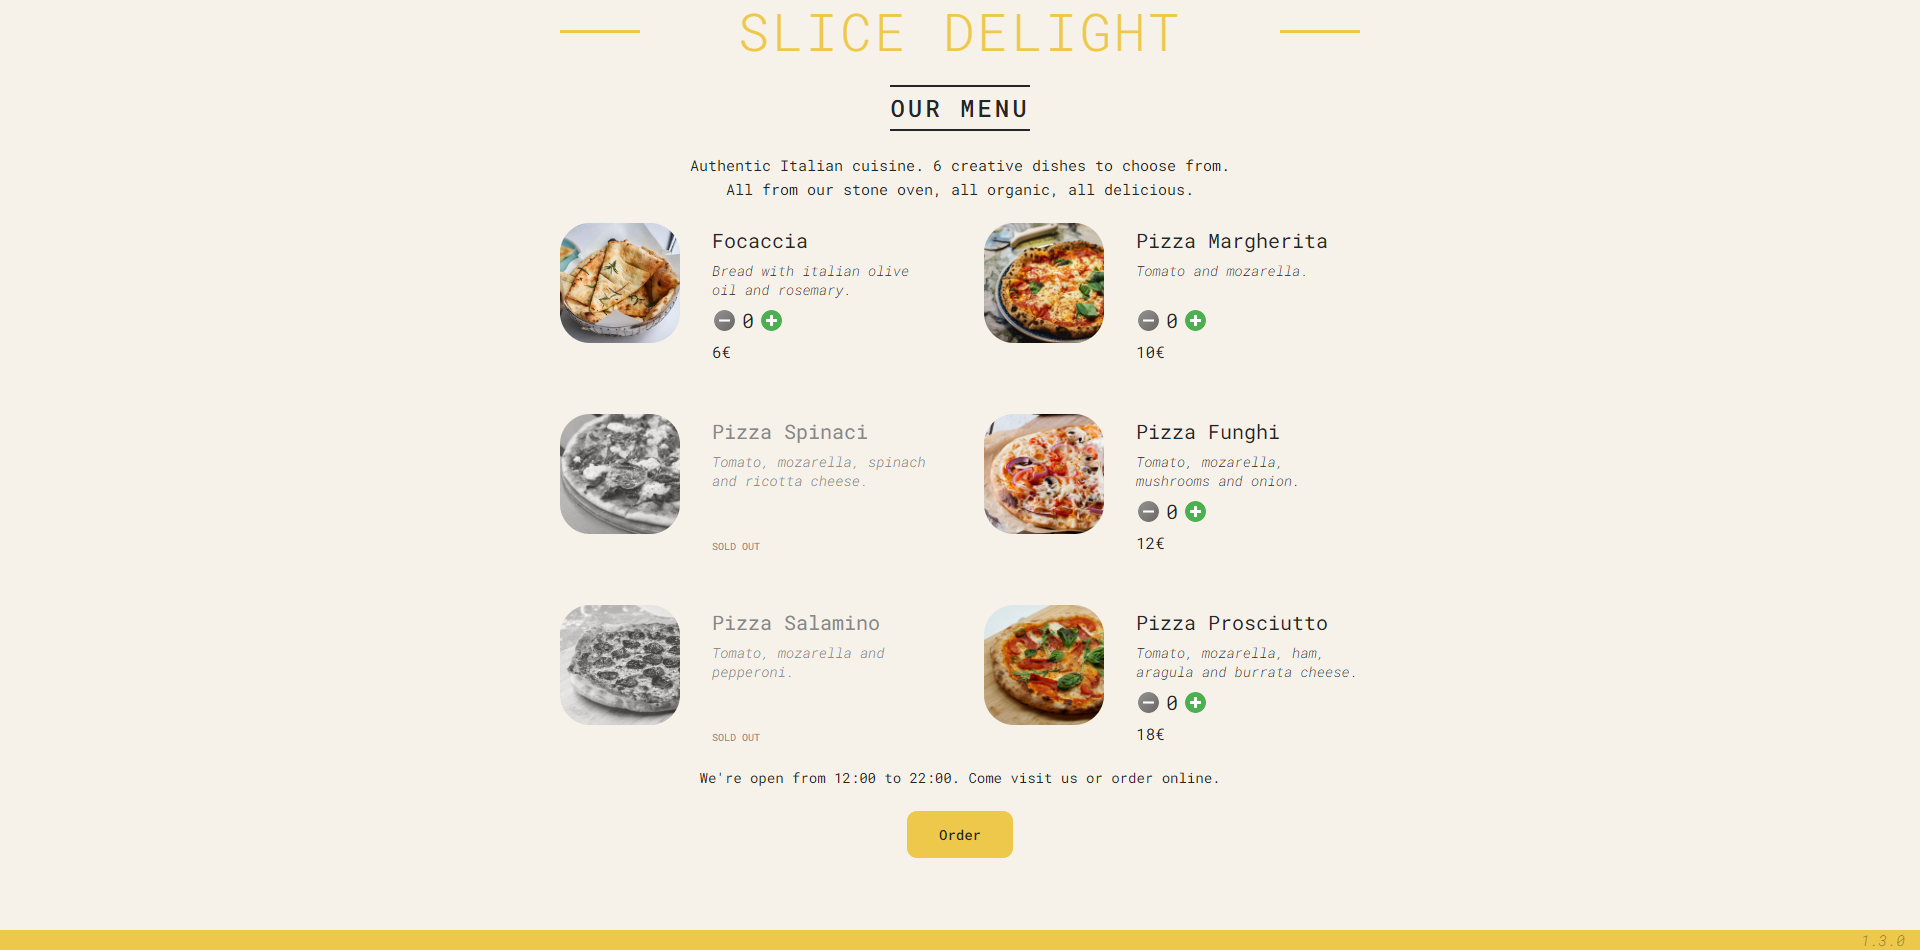
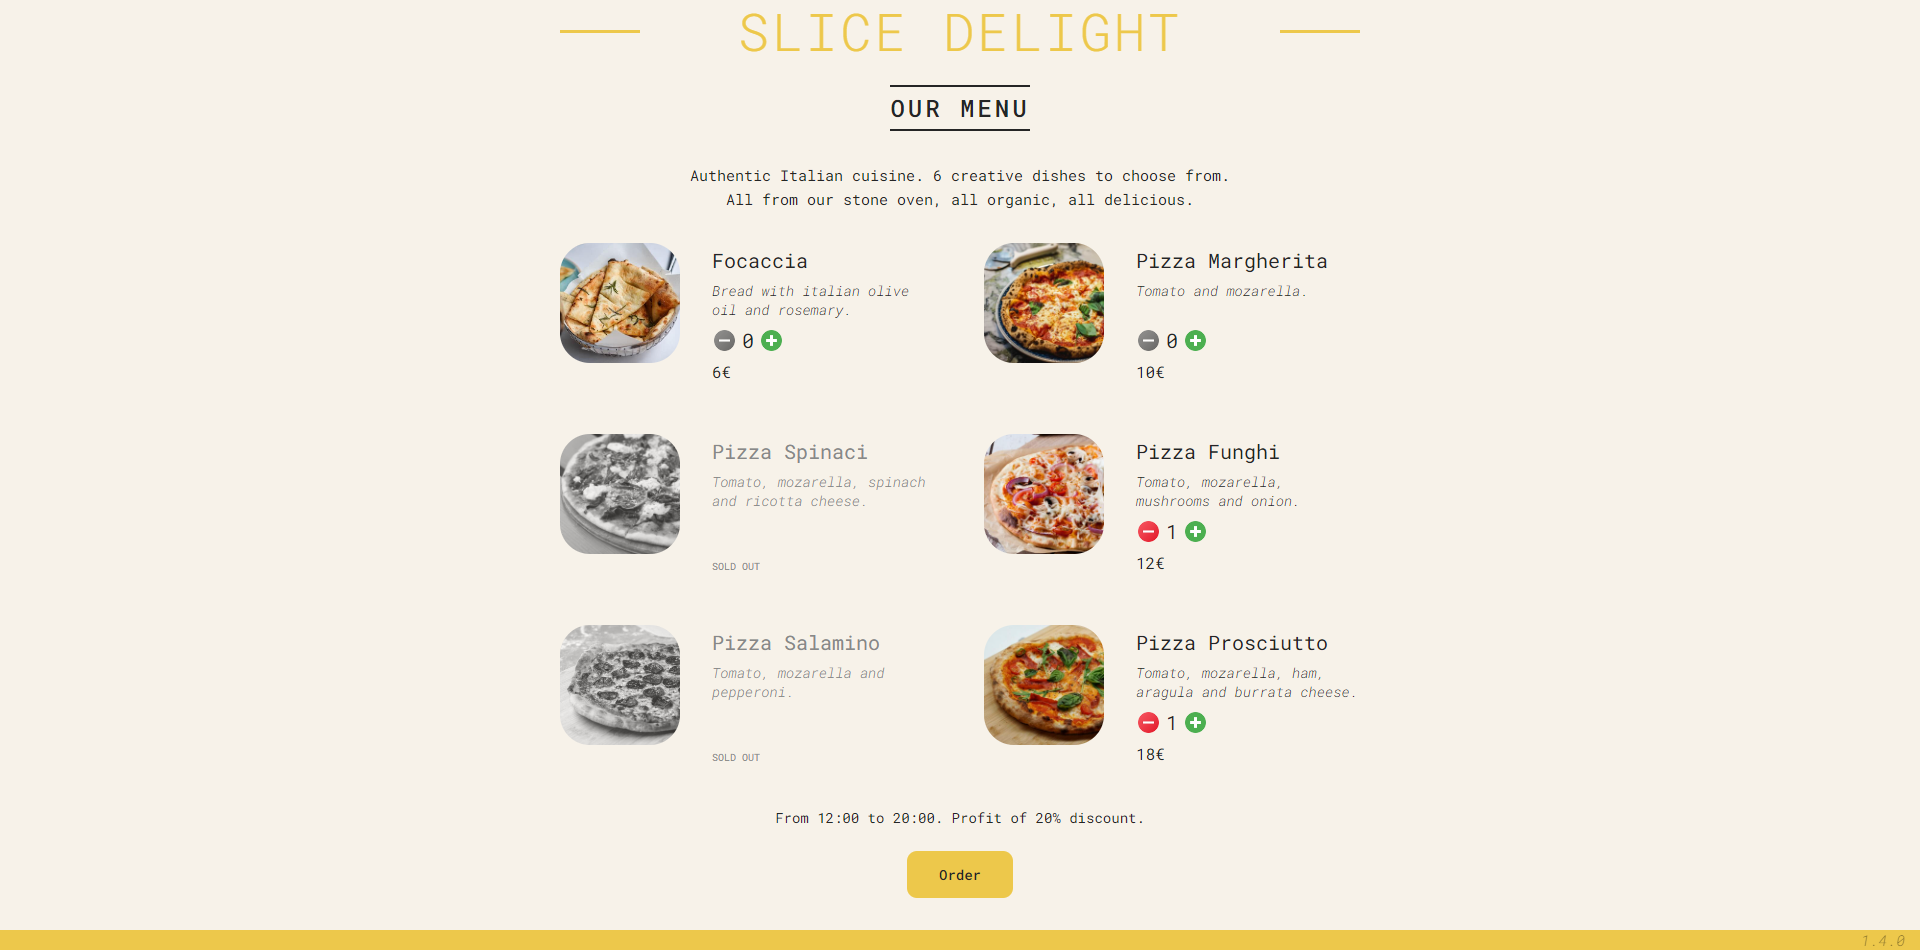
SLICE DELIGHT 1.4.0
Add Offer Feature
Update index.js
Update index.css

diff --git a/src/index.js b/src/index.js
@@ -22,21 +22,22 @@ function App() {
 }
 
 function Header() {
+    let appName = require('../package.json').name;
+    appName = appName.split("-")[0] + " " + appName.split("-")[1];
     return (
         <header className="header">
-            <h1>SLICE DELIGHT</h1>
+            <h1>{appName}</h1>
         </header>
     );
 }
 
 function Menu(order) {
     const pizzas = PizzaData.pizzas;
-    const numPizzas = pizzas.length;
 
     return (
         <main className="menu">
             <h2>Our menu</h2>
-            {numPizzas > 0 ? (
+            {pizzas.length > 0 ? (
                 <>
                     <p>Authentic Italian cuisine. 6 creative dishes to choose from. All from our stone oven, all organic, all delicious.</p>
                     <ul className="pizzas">
@@ -62,7 +63,7 @@ function Pizza({ pizza, order }) {
                 ) : (
                     <>
                         <div className="orderButtons">
-                            <img className={`orderButton asd ${order.order[pizza.id][2] === 0 ? "orderButtonDisabled" : ""}`} src="ui/minus_button.png" alt="Minus Button" onClick={() => UpdateCantityOrder(pizza.id, -1, order)}></img>
+                            <img className={`orderButton ${order.order[pizza.id][2] === 0 ? "orderButtonDisabled" : ""}`} src="ui/minus_button.png" alt="Minus Button" onClick={() => UpdateCantityOrder(pizza.id, -1, order)}></img>
                             <span className="orderCantity">{order.order[pizza.id][2]}</span>
                             <img className="orderButton" src="ui/plus_button.png" alt="Plus Button" onClick={() => UpdateCantityOrder(pizza.id, 1, order)}></img>
                         </div>
@@ -86,38 +87,40 @@ function UpdateCantityOrder(id, value, order) {
 }
 
 function Footer(order) {
-    const hour = new Date().getHours();
-    const openHour = 12;
-    const closeHour = 22;
-    const isOpen = hour >= openHour && hour <= closeHour;
-
     return (
         <footer className="footer">
-            {isOpen ? (
-                <Order closeHour={closeHour} openHour={openHour} order={order} />
-            ) : (
-                <p>We're happy to welcome you between {openHour}:00 and {closeHour}:00.</p>
-            )}
+            <Order order={order} />
         </footer >
     );
 }
 
-function Order({ openHour, closeHour, order }) {
+function Order({ order }) {
+    const currentHour = new Date().getHours();
+    const startOffer = 12;
+    const endOffer = 20;
+    const offerActive = currentHour >= startOffer && currentHour <= endOffer;
 
     return (
         <div className="order">
-            <p>We're open from {openHour}:00 to {closeHour}:00. Come visit us or order online.</p>
+            <p>From {startOffer}:00 to {endOffer}:00. Profit of 20% discount.</p>
             <button className="btn" onClick={() => {
                 let htmlOrder = "";
-                let totalPriceInt = 0;
+                let totalPrice = 0;
                 order.order.forEach(element => {
                     if (element[2] > 0) {
                         htmlOrder = htmlOrder + "<p>" + element[0] + ": " + element[2] + "</p>"
-                        totalPriceInt += (element[1] * element[2]);
+                        totalPrice += (element[1] * element[2]);
                     }
                 });
-                if (totalPriceInt > 0) {
-                    const htmlTotalPrice = "Total price: " + totalPriceInt + "€";
+                if (totalPrice > 0) {
+                    let htmlTotalPrice = "";
+                    if (offerActive) {
+                        totalPrice *= 0.8;
+                        totalPrice = Number(totalPrice.toFixed(2));
+                        htmlTotalPrice = "Special Offer -20%: " + totalPrice + "€";
+                    }
+                    else
+                        htmlTotalPrice = "Total price: " + totalPrice + "€";
                     Swal.fire({
                         title: htmlTotalPrice,
                         html: htmlOrder,

diff --git a/src/index.css b/src/index.css
@@ -90,6 +90,7 @@ body {
 }
 
 .menu > p {
+  margin: 10px 0;
   font-size: 1.5rem;
   text-align: center;
   line-height: 1.6;
@@ -158,9 +159,17 @@ body {
   width: 25px;
 }
 
+.orderButton:hover {
+  cursor: pointer;
+}
+
 .orderButtonDisabled {
   filter: grayscale();
   opacity: 0.8;
+}
+
+.orderButtonDisabled:hover {
+  cursor: default;
 }
 
 .orderCantity {
@@ -177,6 +186,10 @@ body {
   flex-direction: column;
   align-items: center;
   gap: 2.4rem;
+}
+
+.order {
+  margin: 20px 0;
 }
 
 .btn {
@@ -230,6 +243,14 @@ body {
   .header h1::before,
   .header h1::after {
     width: 2rem;
+  }
+
+  .header h1::before {
+    left: -20px;
+  }
+
+  .header h1::after {
+    right: -20px;
   }
 
   .menu h2 {

diff --git a/README.md b/README.md
@@ -16,7 +16,7 @@
 
 - **STACK :**
 
-  - **Slice Delight** : `1.3.0`
+  - **Slice Delight** : `1.4.0`
   - **React** : `18.3.1`
   - **React Dom** : `18.3.1`
   - **SweetAlert2** : `11.11.0`
